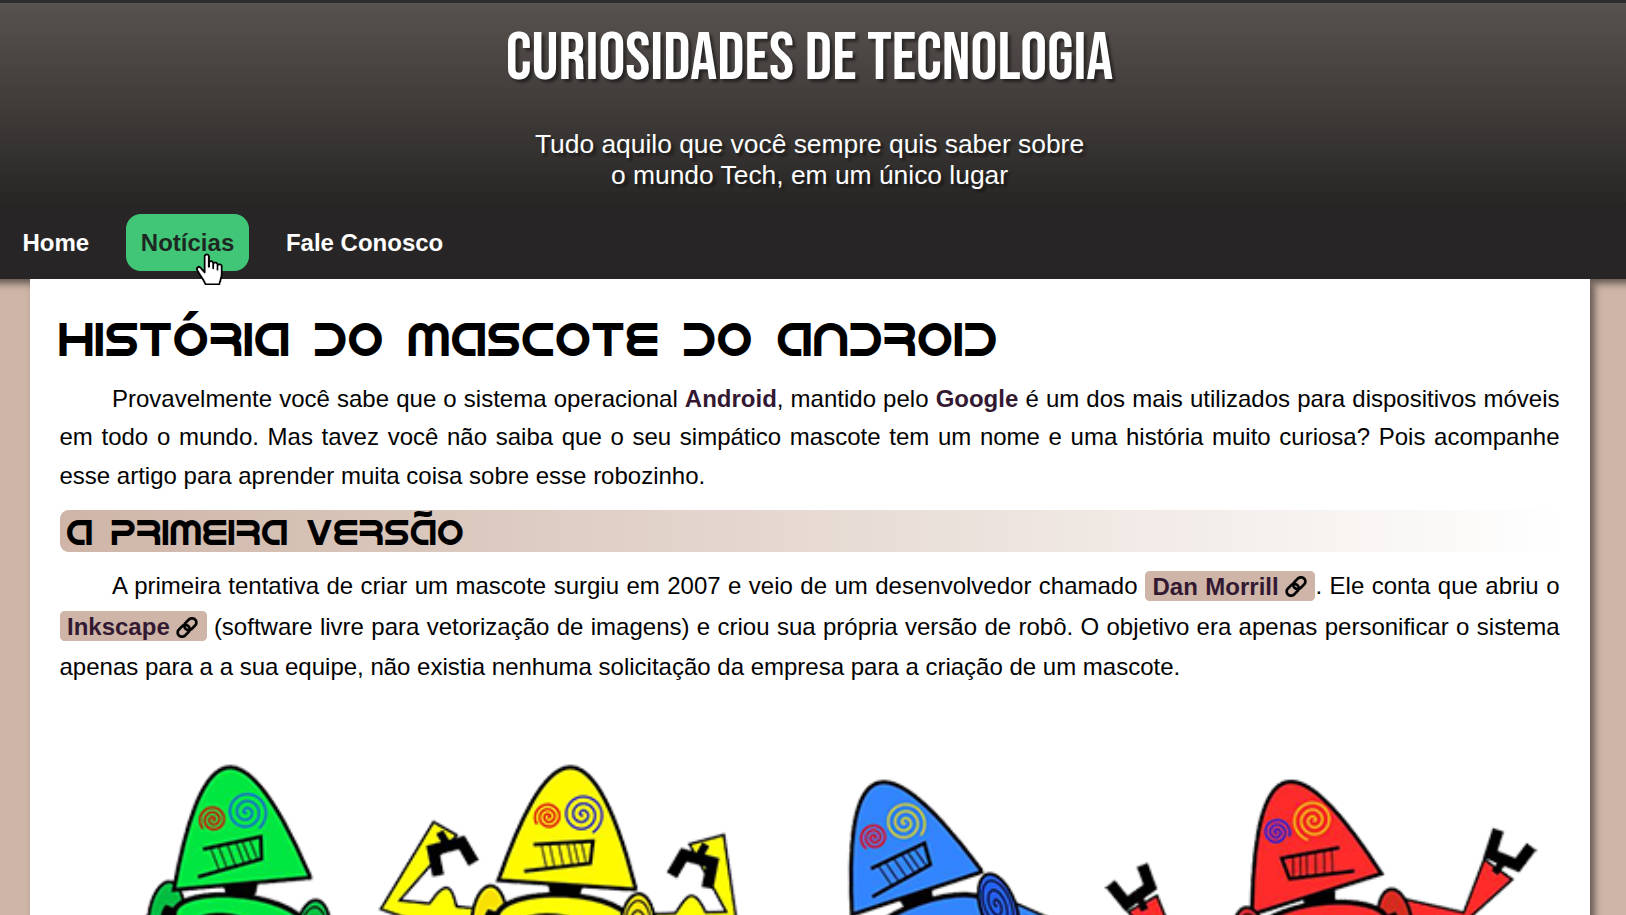
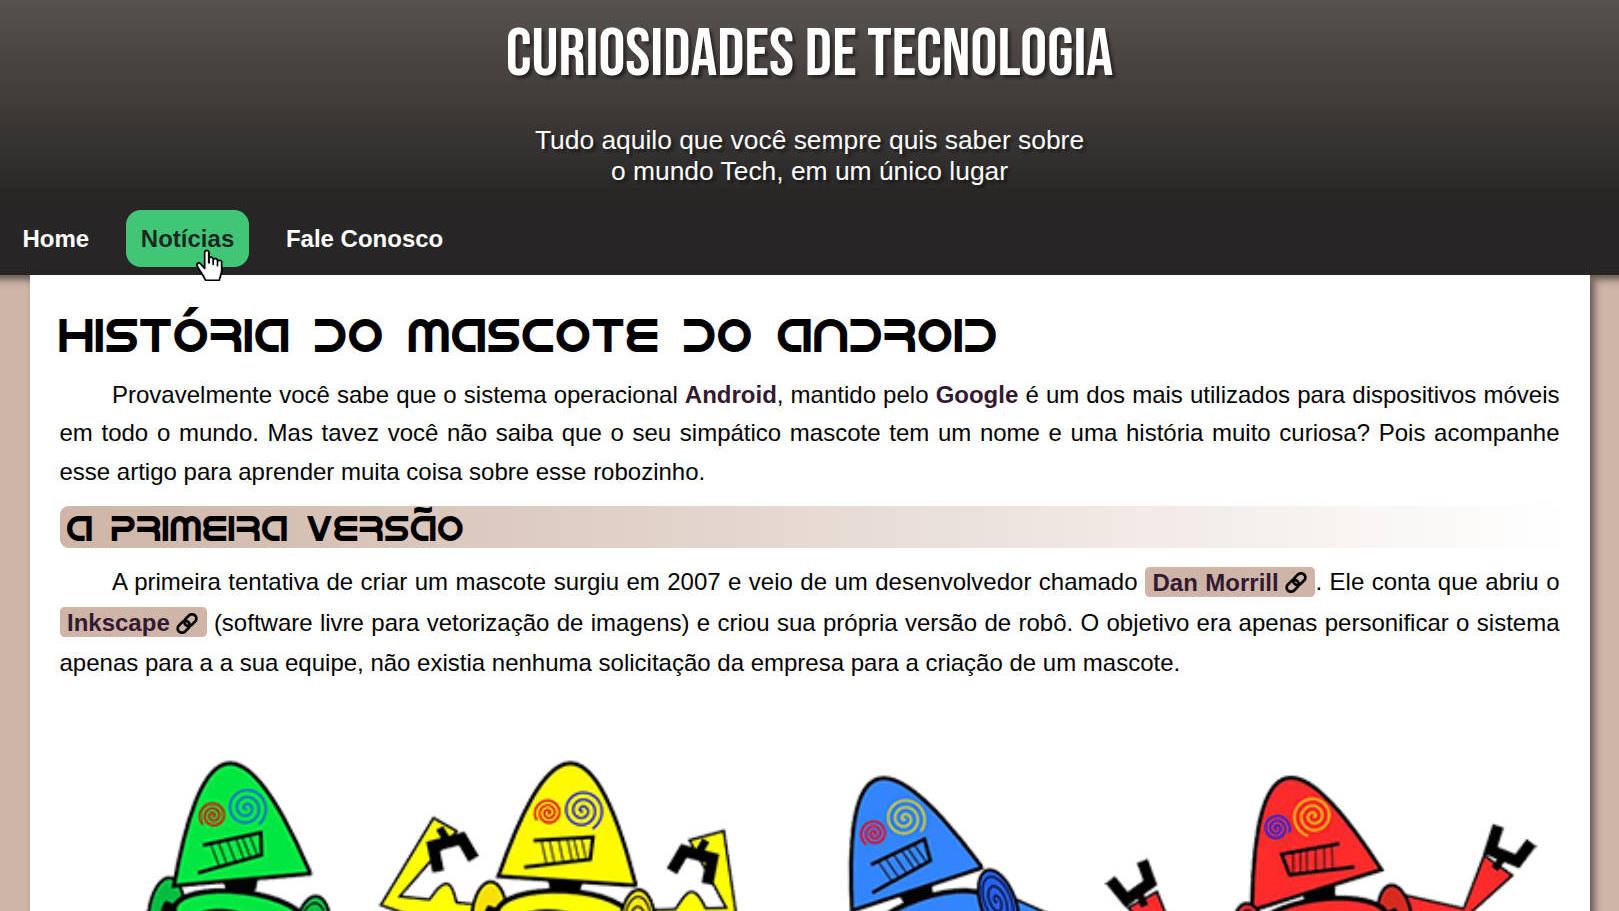
finalizei o media queries

diff --git a/index.html b/index.html
@@ -96,132 +96,135 @@
                 </h2>
 
                 <!-- Item HTML -->
-                <div class="item">
-                    <div class="info">
-                        <span class="nome">
-                            <i class="fa-solid fa-code"></i>
-                            HTML5
-                        </span>
-                        <span class="porcent">
-                            95%
-                        </span>
+                 <div id="container-skills">
+                        <div class="item">
+                        <div class="info">
+                            <span class="nome">
+                                <i class="fa-solid fa-code"></i>
+                                HTML5
+                            </span>
+                            <span class="porcent">
+                                95%
+                            </span>
+                        </div>
+                        <div class="barra">
+                            <div class="progresso" style="width: 95%;"></div>
+                        </div>
                     </div>
-                    <div class="barra">
-                        <div class="progresso" style="width: 95%;"></div>
-                    </div>
-                </div>
 
-                <!-- Item  CSS3 -->
-                <div class="item">
-                    <div class="info">
-                        <span class="nome">
-                            <i class="fa-solid fa-code"></i>
-                            CSS3
-                        </span>
-                        <span class="porcent">
-                            87%
-                        </span>
+                    <!-- Item  CSS3 -->
+                    <div class="item">
+                        <div class="info">
+                            <span class="nome">
+                                <i class="fa-solid fa-code"></i>
+                                CSS3
+                            </span>
+                            <span class="porcent">
+                                87%
+                            </span>
+                        </div>
+                        <div class="barra">
+                            <div class="progresso" style="width: 87%;"></div>
+                        </div>
                     </div>
-                    <div class="barra">
-                        <div class="progresso" style="width: 87%;"></div>
-                    </div>
-                </div>
 
-                <!-- Item  JavaScript-->
-                <div class="item">
-                    <div class="info">
-                        <span class="nome">
-                            <i class="fa-solid fa-code"></i>
-                            JavaScript
-                        </span>
-                        <span class="porcent">
-                            01%
-                        </span>
+                    <!-- Item  JavaScript-->
+                    <div class="item">
+                        <div class="info">
+                            <span class="nome">
+                                <i class="fa-solid fa-code"></i>
+                                JavaScript
+                            </span>
+                            <span class="porcent">
+                                01%
+                            </span>
+                        </div>
+                        <div class="barra">
+                            <div class="progresso" style="width: 02%;"></div>
+                        </div>
                     </div>
-                    <div class="barra">
-                        <div class="progresso" style="width: 02%;"></div>
-                    </div>
-                </div>
 
-                <!-- Item  PHP-->
-                <div class="item">
-                    <div class="info">
-                        <span class="nome">
-                            <i class="fa-solid fa-code"></i>
-                            PHP
-                        </span>
-                        <span class="porcent">
-                            00%
-                        </span>
+                    <!-- Item  PHP-->
+                    <div class="item">
+                        <div class="info">
+                            <span class="nome">
+                                <i class="fa-solid fa-code"></i>
+                                PHP
+                            </span>
+                            <span class="porcent">
+                                00%
+                            </span>
+                        </div>
+                        <div class="barra">
+                            <div class="progresso" style="width: 00%;"></div>
+                        </div>
                     </div>
-                    <div class="barra">
-                        <div class="progresso" style="width: 00%;"></div>
+    
+                    <!-- Item  Comunicação-->
+                    <div class="item">
+                        <div class="info">
+                            <span class="nome">
+                                <i class="fa-solid fa-users-gear"></i>
+                                Comunicação
+                            </span>
+                            <span class="porcent">
+                                80%
+                            </span>
+                        </div>
+                        <div class="barra">
+                            <div class="progresso" style="width: 80%;"></div>
+                        </div>
                     </div>
-                </div>
-  
-                <!-- Item  Comunicação-->
-                <div class="item">
-                    <div class="info">
-                        <span class="nome">
-                            <i class="fa-solid fa-users-gear"></i>
-                            Comunicação
-                        </span>
-                        <span class="porcent">
-                            80%
-                        </span>
+    
+                    <!-- Item  Adaptabilidade-->
+                    <div class="item">
+                        <div class="info">
+                            <span class="nome">
+                                <i class="fa-solid fa-users-gear"></i>
+                                Adaptabilidade
+                            </span>
+                            <span class="porcent">
+                                95%
+                            </span>
+                        </div>
+                        <div class="barra">
+                            <div class="progresso" style="width: 95%;"></div>
+                        </div>
                     </div>
-                    <div class="barra">
-                        <div class="progresso" style="width: 80%;"></div>
+    
+                    <!-- Item  Trabalho em equipe-->
+                    <div class="item">
+                        <div class="info">
+                            <span class="nome">
+                                <i class="fa-solid fa-users-gear"></i>
+                                Trabalho em equipe
+                            </span>
+                            <span class="porcent">
+                                85%
+                            </span>
+                        </div>
+                        <div class="barra">
+                            <div class="progresso" style="width: 85%;"></div>
+                        </div>
                     </div>
-                </div>
-  
-                <!-- Item  Adaptabilidade-->
-                <div class="item">
-                    <div class="info">
-                        <span class="nome">
-                            <i class="fa-solid fa-users-gear"></i>
-                            Adaptabilidade
-                        </span>
-                        <span class="porcent">
-                            95%
-                        </span>
+    
+                    <!-- Item  Liderança-->
+                    <div class="item">
+                        <div class="info">
+                            <span class="nome">
+                                <i class="fa-solid fa-users-gear"></i>
+                                Liderança
+                            </span>
+                            <span class="porcent">
+                                70%
+                            </span>
+                        </div>
+                        <div class="barra">
+                            <div class="progresso" style="width: 70%;"></div>
+                        </div>
                     </div>
-                    <div class="barra">
-                        <div class="progresso" style="width: 95%;"></div>
-                    </div>
-                </div>
-   
-                <!-- Item  Trabalho em equipe-->
-                <div class="item">
-                    <div class="info">
-                        <span class="nome">
-                            <i class="fa-solid fa-users-gear"></i>
-                            Trabalho em equipe
-                        </span>
-                        <span class="porcent">
-                            85%
-                        </span>
-                    </div>
-                    <div class="barra">
-                        <div class="progresso" style="width: 85%;"></div>
-                    </div>
-                </div>
-  
-                <!-- Item  Liderança-->
-                <div class="item">
-                    <div class="info">
-                        <span class="nome">
-                            <i class="fa-solid fa-users-gear"></i>
-                            Liderança
-                        </span>
-                        <span class="porcent">
-                            70%
-                        </span>
-                    </div>
-                    <div class="barra">
-                        <div class="progresso" style="width: 70%;"></div>
-                    </div>
-                </div>
+                 </div>
+                
 
             </article> 
             

diff --git a/estilos/style.css b/estilos/style.css
@@ -44,6 +44,11 @@ body.escuro {
 article{
     margin-bottom: 20px;
 }
+
+h2 {
+    color: var(--destaque);
+    margin-bottom: 15px;
+}
 /* ==========================================
             HEADER & MENU
    ========================================== */
@@ -156,10 +161,6 @@ article#vidio {
     border-radius: 15px;
 }
 
- h2 {
-    color: var(--destaque);
-}
-
 div.vidio-container {
     position: relative;
     width: 100%;
@@ -185,10 +186,6 @@ article#skills {
     padding-bottom: 5px;
     border-radius: 15px;
     color: var(--texto);
-}
-
-article#skills h2 {
-    color: var(--destaque);
 }
 
 article#skills div.info {
@@ -230,10 +227,6 @@ article#formacao div.formacao-contaner {
     display: flex;
     flex-direction: column-reverse;
     gap: 15px;
-}
-
-article#formacao h2 {
-    color: var(--destaque);
 }
 
 article#formacao div.curso {
@@ -356,6 +349,38 @@ footer {
     }
     
     section#detalhes {
+        margin-top: 8px;
         grid-column: 3/4;
     }
+
+    article#skills div#container-skills {
+        display: grid;
+        grid-template-columns: 1fr 1fr;
+        gap: 10px;
+    }
+
+    div#container-projeto {
+        display: flex;
+    flex-direction: row-reverse;
+    justify-content: space-between;
+    }
+
+    div#container-projeto .projeto {
+        display: flex;
+        flex-direction: row-reverse;
+        justify-content: space-between;
+    }
+
+    div#container-projeto .projeto-info {
+        margin-top: 10px;
+        margin-left: 10px;
+        max-width: 60%;
+    }
+
+    div#container-projeto .foto {
+        aspect-ratio: 16/9;
+        max-height: 300px;
+    }
+
+
 }
